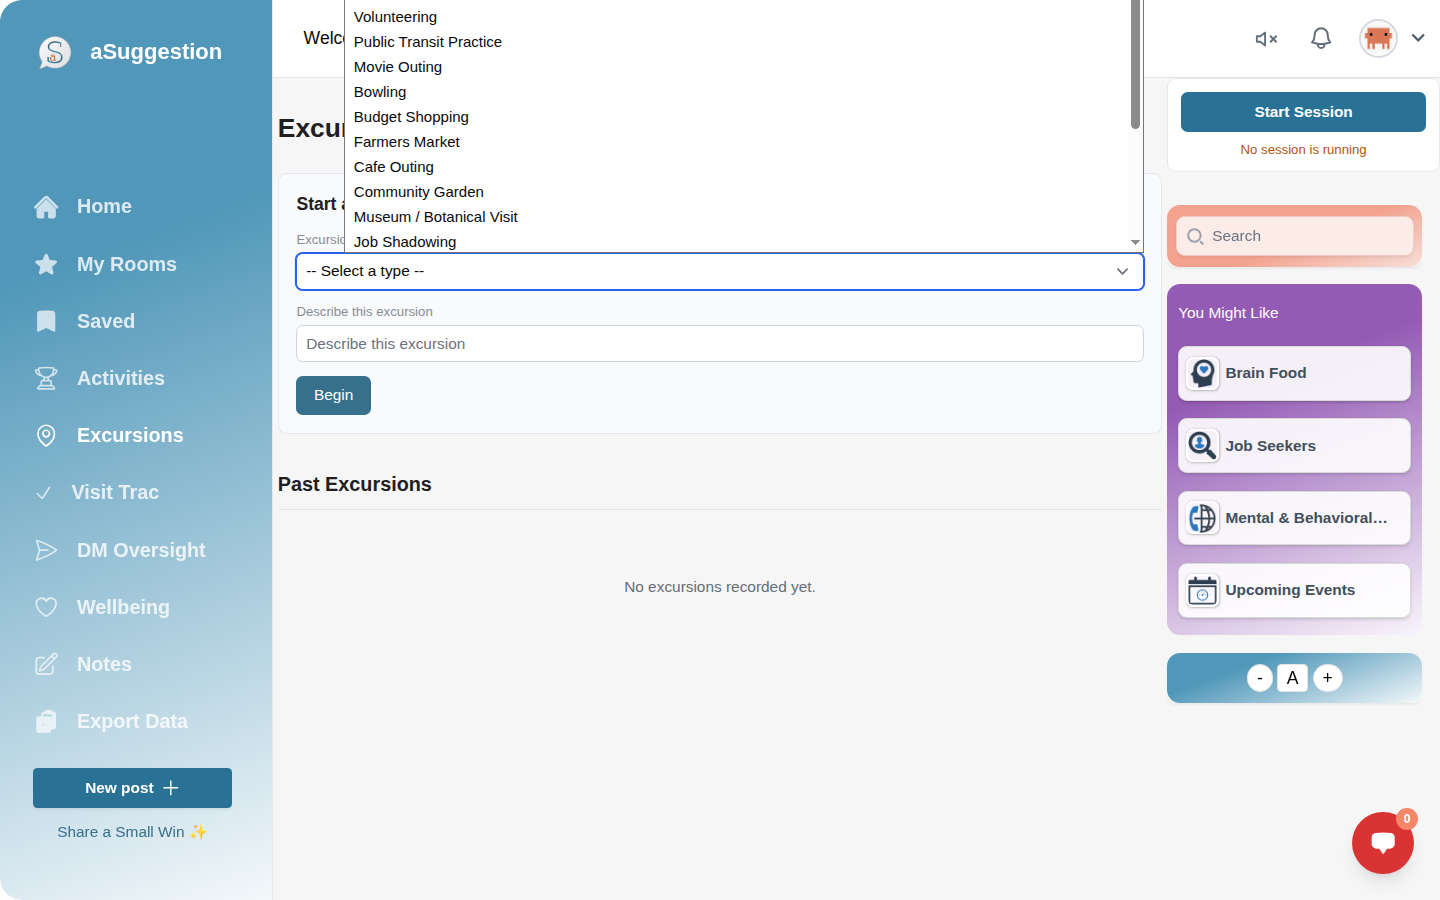
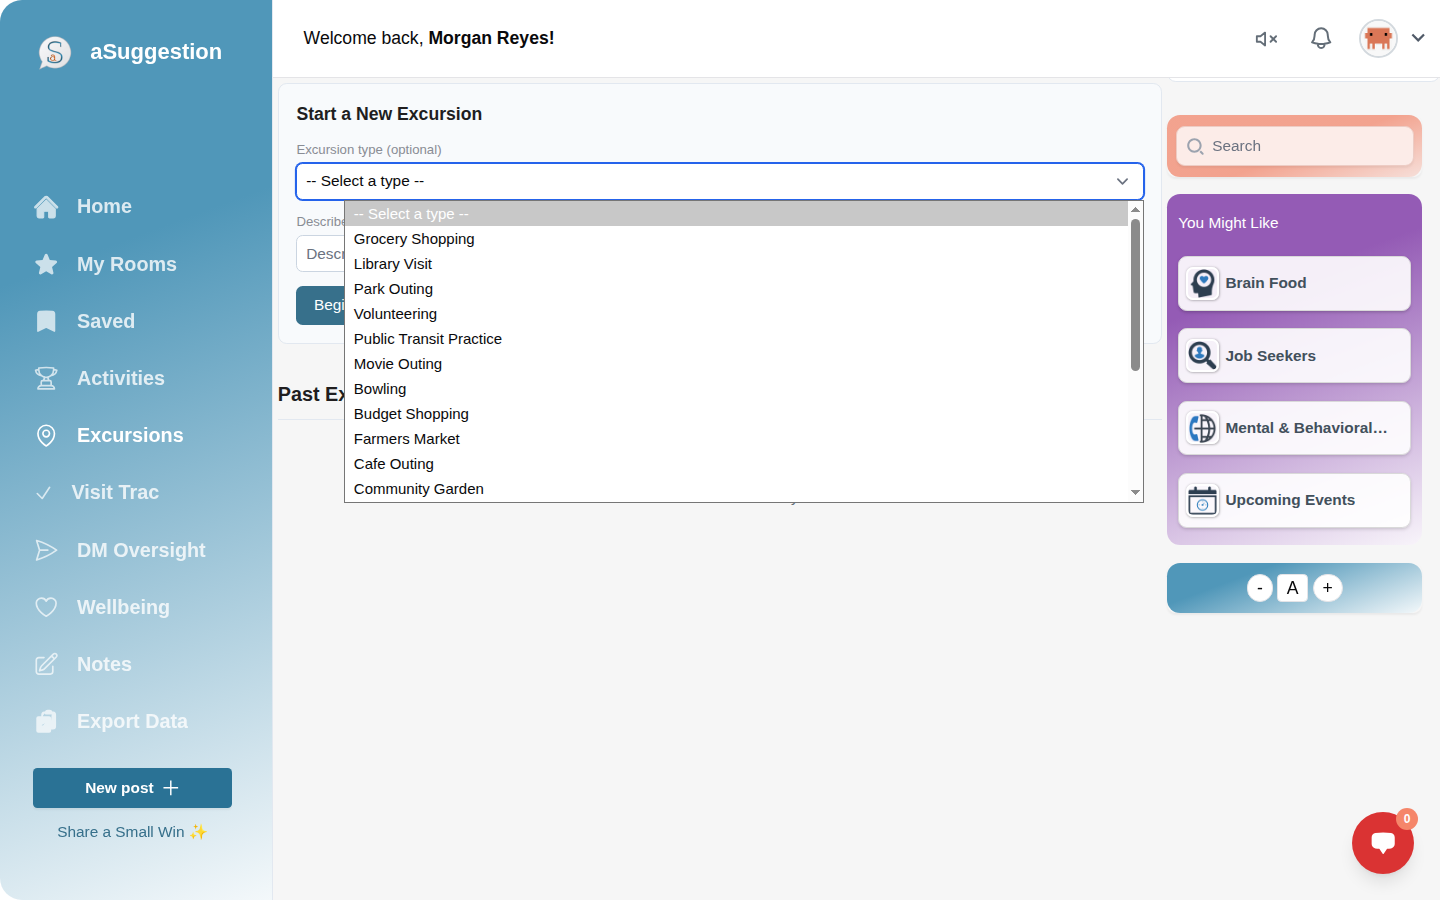
Fix homepage feature-row spacing, use "team member" for Check-In Chats, dropdown opens downward
- Homepage 2x2 feature row: rows sat too close together at narrower
  widths (Multilanguage heading nearly touching Excursion Tracking's
  last line); widened row/column gaps and top padding, and trimmed the
  Excursion Tracking copy slightly to reduce wrap
- "Care professional" -> "team member" in the Check-In Chats copy on
  both index.html and about.html, since the person on the call is
  sometimes an intern, not necessarily a credentialed care professional
- Excursions screenshot: the type dropdown was rendering upward, cutting
  off the page header and looking awkward; scrolled the select near the
  top of the viewport before opening it so Chromium draws the popup
  downward instead

Changed region(s): [[0.1875, 0.0, 1.0, 0.8089], [0.5312, 0.6222, 0.5625, 0.6533], [0.4688, 0.6222, 0.5, 0.6533]]

diff --git a/index.html b/index.html
@@ -210,22 +210,22 @@
 
         <p class="mt-2 text-sm font-bold uppercase tracking-[0.2em] text-slate-400">And much more, such as . . .</p>
         <div class="mt-3 rounded-[1.5rem] bg-white p-6 shadow-sm ring-1 ring-slate-100 lift-card">
-          <div class="grid gap-x-6 gap-y-6 sm:grid-cols-2">
+          <div class="grid gap-x-8 gap-y-8 sm:grid-cols-2">
             <div>
               <h3 class="text-base font-bold text-brand-navy">Excursion Tracking</h3>
-              <p class="mt-2 text-sm leading-6 text-slate-600">Log community outings, calculate mileage automatically, and publish group photos with participant-level consent built in.</p>
+              <p class="mt-2 text-sm leading-6 text-slate-600">Log community outings, calculate mileage automatically, and publish group photos with consent built in.</p>
             </div>
-            <div class="sm:border-l sm:border-slate-100 sm:pl-6">
+            <div class="sm:border-l sm:border-slate-100 sm:pl-8">
               <h3 class="text-base font-bold text-brand-navy">Live Interactive Sessions and Video Content Library</h3>
               <p class="mt-2 text-sm leading-6 text-slate-600">A curated library of videos and live content, shared by your organization and the wider community.</p>
             </div>
-            <div class="border-t border-slate-100 pt-6">
+            <div class="border-t border-slate-100 pt-8">
               <h3 class="text-base font-bold text-brand-navy">Multilanguage &amp; Accessibility</h3>
               <p class="mt-2 text-sm leading-6 text-slate-600">Support for over 70 languages via AI content translation, plus dark mode and keyboard-accessible interactions throughout.</p>
             </div>
-            <div class="border-t border-slate-100 pt-6 sm:border-l sm:pl-6">
+            <div class="border-t border-slate-100 pt-8 sm:border-l sm:pl-8">
               <h3 class="text-base font-bold text-brand-navy">Check-In Chats</h3>
-              <p class="mt-2 text-sm leading-6 text-slate-600">A live, secure video check-in between a care professional and the person they support, started in a click.</p>
+              <p class="mt-2 text-sm leading-6 text-slate-600">A live, secure video check-in between a team member and the person they support, started in a click.</p>
             </div>
           </div>
         </div>

diff --git a/about.html b/about.html
@@ -313,7 +313,7 @@
         desc: 'Captures the data elements required under the 21st Century Cures Act for a billable visit, service type through sign-off, without ever storing a home address or protected health information.',
         img: 'assets/images/showcase/showcase-visit-trac.png' },
       { label: 'Check-In Chats', track: 'For Organizations & Care Teams', title: 'A live, secure video check-in when it matters',
-        desc: 'A peer-to-peer encrypted video call between a care professional and the person they support, started in a click. Nothing is recorded unless both people consent, so it stays a genuine check-in, not a surveillance tool.',
+        desc: 'A peer-to-peer encrypted video call between a team member and the person they support, started in a click. Nothing is recorded unless both people consent, so it stays a genuine check-in, not a surveillance tool.',
         img: 'assets/images/showcase/showcase-checkin-chat.png' },
       { label: 'Wellbeing Dashboard', track: 'For Organizations & Care Teams', title: 'Real-time engagement and wellbeing insight',
         desc: 'A live view into activity trends across everyone a care team supports, sortable by most recent activity, so a quiet drop-off in engagement never goes unnoticed until it becomes a bigger problem.',
